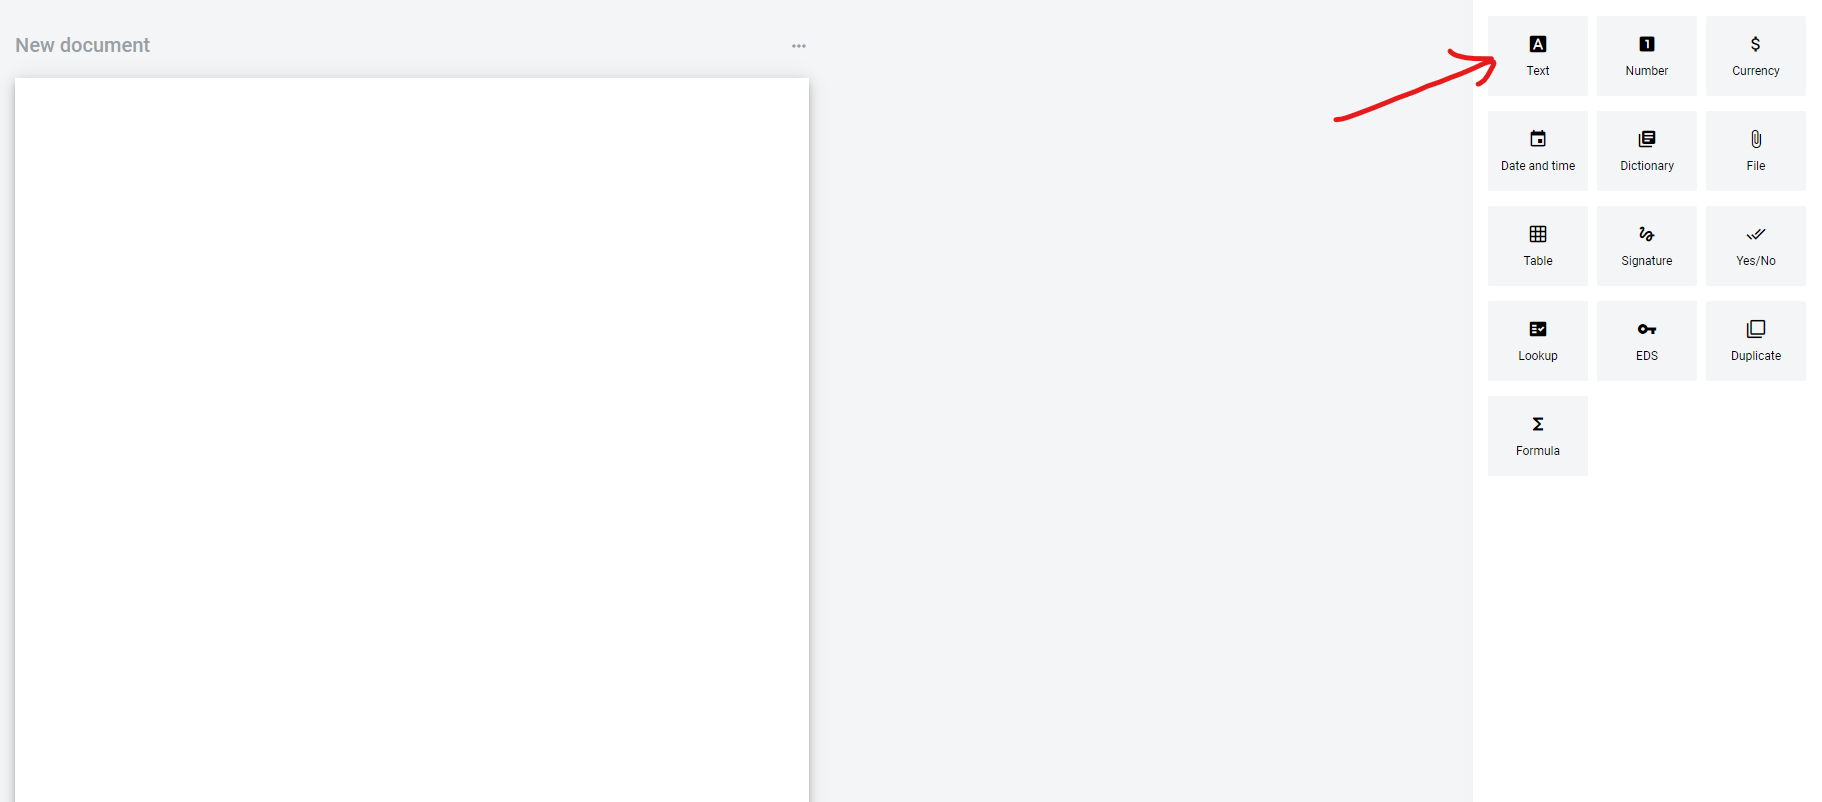
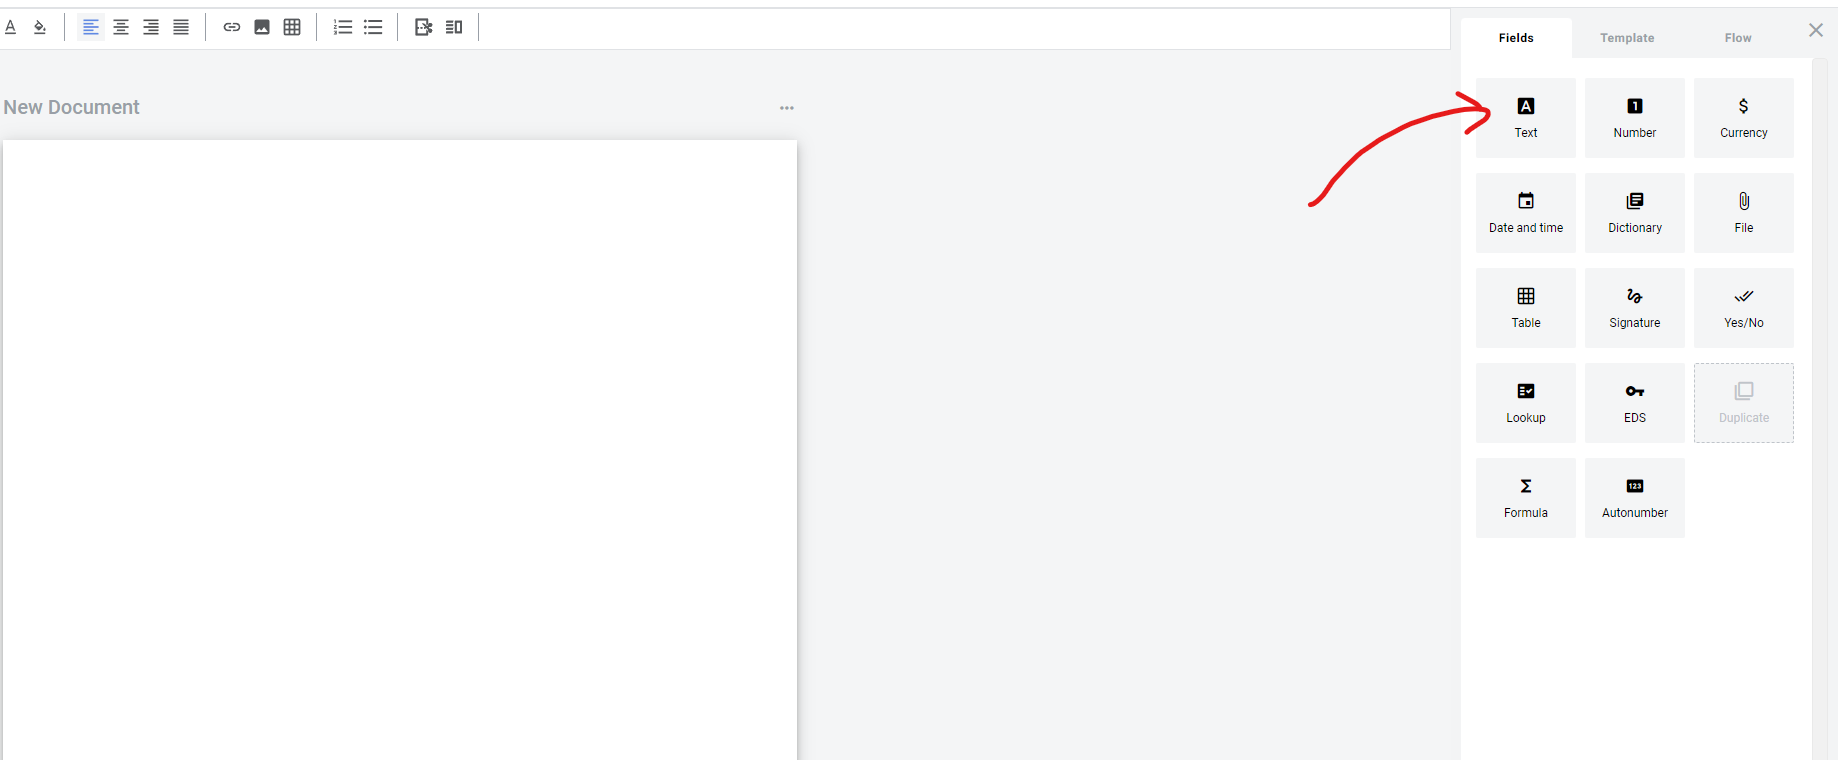
Autonumber field

diff --git a/docs/source/pages/howToWorkWithPlatform/mainApplication/templateList/templateManagement/documentManagementOnTemplate/structuredDocument/fields/autonumber/autonumber.rst b/docs/source/pages/howToWorkWithPlatform/mainApplication/templateList/templateManagement/documentManagementOnTemplate/structuredDocument/fields/autonumber/autonumber.rst
@@ -1,0 +1,31 @@
+================
+Autonumber Field
+================
+
+.. toctree::
+
+Autonumber field allows you to add a sequence number which will automatically increment on each new envelope created from a template. It does not need to be filled manually. Numbering for each field will never restart, even if field was removed and then added again with same field name. For different field names there will be separate counters. Numbers of deleted draft also will not be reused.
+
+To add autonumber field you should place a cursor in the document and click on Autonumber field button, or drag it over the document.
+
+.. image:: pic_autonumber/AutonumberButton.png
+   :width: 400
+   :align: center
+
+Modal window with properties of the field will appear.
+
+.. image:: pic_autonumber/AutonumberAttributes.png
+   :width: 400
+   :align: center
+
+1. Name - this is a name of a field
+
+2. Prefix - this is text that will be appended to sequence number. You can enter up to 15 characters. Example will be shown in same modal window
+
+3. Search - this attribute specifies if this field should be eligible for mailbox page search
+
+When attributres are set you can click Save button and field will be added. You can click filed to see its properties and update them. Also you can delete the field in same menu.
+
+.. image:: pic_autonumber/AutonumberField.png
+   :width: 400
+   :align: center

diff --git a/docs/source/pages/howToWorkWithPlatform/mainApplication/templateList/templateManagement/documentManagementOnTemplate/structuredDocument/fields/text/text.rst b/docs/source/pages/howToWorkWithPlatform/mainApplication/templateList/templateManagement/documentManagementOnTemplate/structuredDocument/fields/text/text.rst
@@ -4,13 +4,15 @@ Text field
 
 .. toctree::
 
+Text field allows you to create dynamic text box which will be filled by participants of the envelope processing flow.
+
 To add text field you should place a cursor in the document and click on Text field button, or drag it over the document.
 
 .. image:: pic_text/TextButton.png
    :width: 400
    :align: center
 
-You will see modal window with properties of Text field you are adding.
+Modal window with properties of the field will appear.
 
 .. image:: pic_text/TextAttributes.png
    :width: 400
@@ -29,7 +31,7 @@ You will see modal window with properties of Text field you are adding.
 .. note::
    Please note that standart character limit is 1000 for singleline filed and 5000 for multiline field
 
-6. Search - this attribute specifies will this field be eligible for mailbox page search
+6. Search - this attribute specifies if this field should be eligible for mailbox page search
 
 7. Min - minimum number of characters required for field (no limit is applied if left empty)
 

diff --git a/docs/source/pages/howToWorkWithPlatform/mainApplication/templateList/templateManagement/documentManagementOnTemplate/structuredDocument/fields/dateAndTime/dateAndTime.rst b/docs/source/pages/howToWorkWithPlatform/mainApplication/templateList/templateManagement/documentManagementOnTemplate/structuredDocument/fields/dateAndTime/dateAndTime.rst
@@ -4,7 +4,9 @@ Date and time field
 
 .. toctree::
 
-To add Date and time field you should place a cursor in the document and click on Date and time field button, or drag it over the document.
+Date and time field allows you to create date and time selector which will be filled by participants of the envelope processing flow.
+
+To add text field you should place a cursor in the document and click on Text field button, or drag it over the document.
 
 .. image:: pic_dateAndTime/DateButton.png
    :width: 400
@@ -26,7 +28,7 @@ You will see modal window with properties of Date and time field you are adding.
 
 5. Time - this attribute specifies if time will be included with date
 
-6. Search - this attribute specifies will this field be eligible for mailbox page search
+6. Search - this attribute specifies if this field should be eligible for mailbox page search
 
 7. Min - minimum date (no limit is applied if left empty)
 

diff --git a/docs/source/pages/howToWorkWithPlatform/mainApplication/templateList/templateManagement/documentManagementOnTemplate/structuredDocument/fields/fields.rst b/docs/source/pages/howToWorkWithPlatform/mainApplication/templateList/templateManagement/documentManagementOnTemplate/structuredDocument/fields/fields.rst
@@ -16,3 +16,4 @@ Fields
    digitalSignature/eds.rst
    duplicate/duplicate.rst
    formula/Formula.rst
+   autonumber/autonumber.rst
